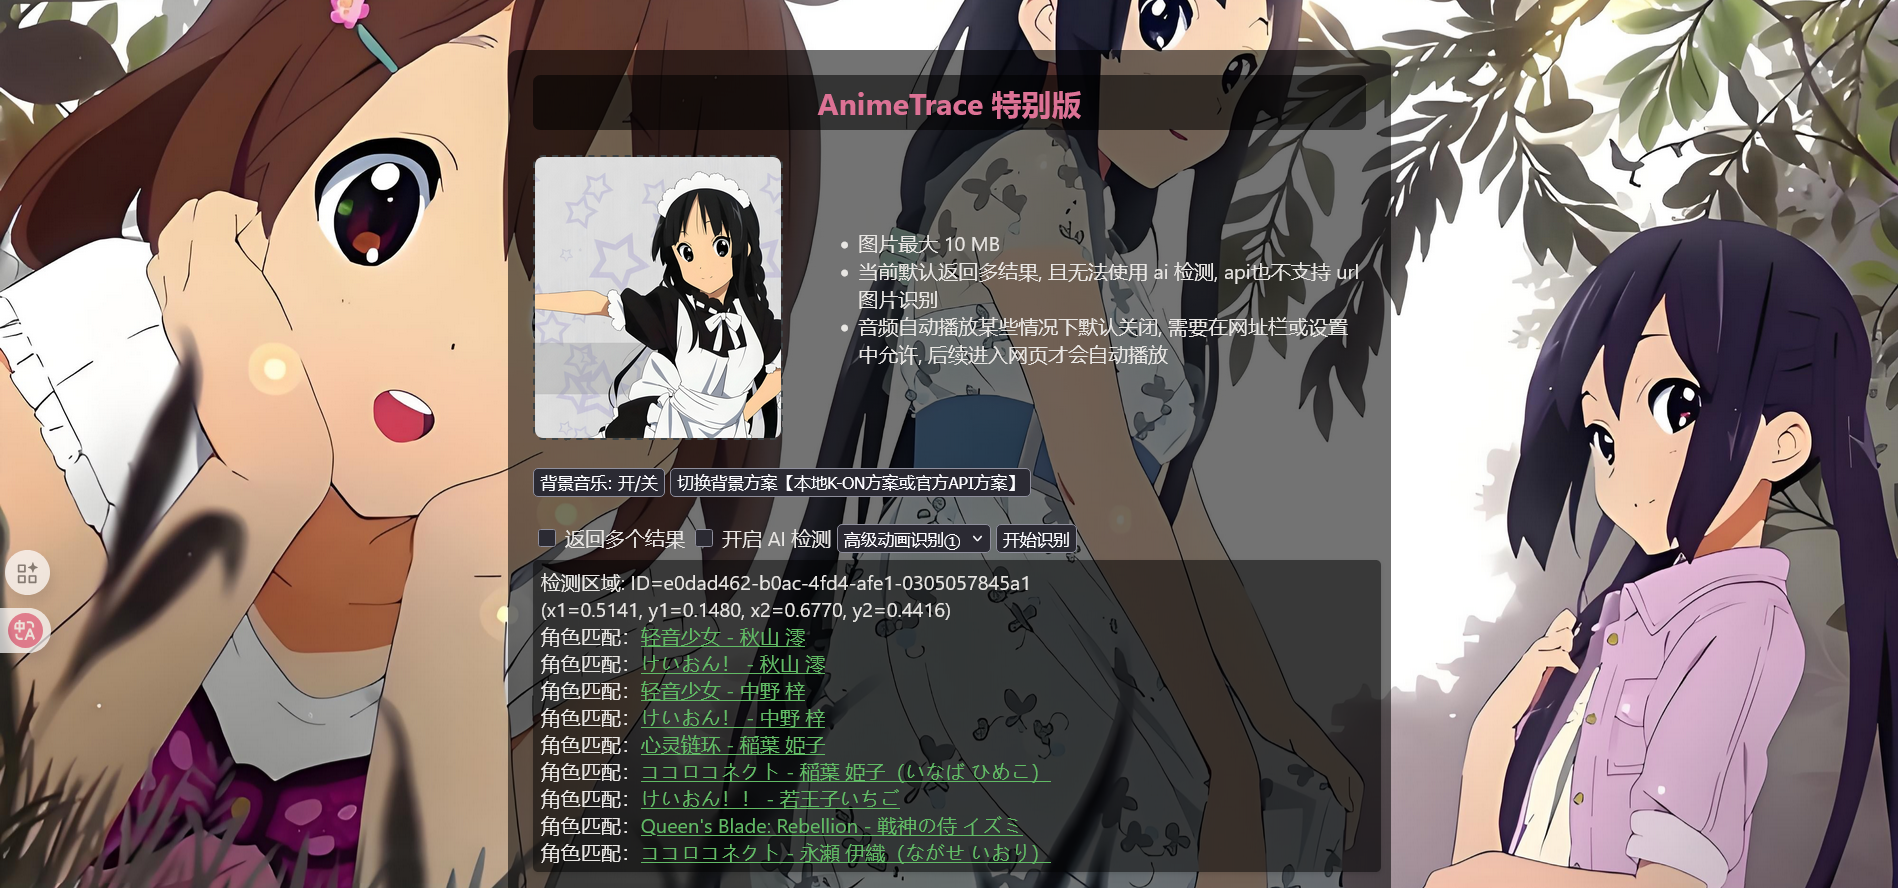
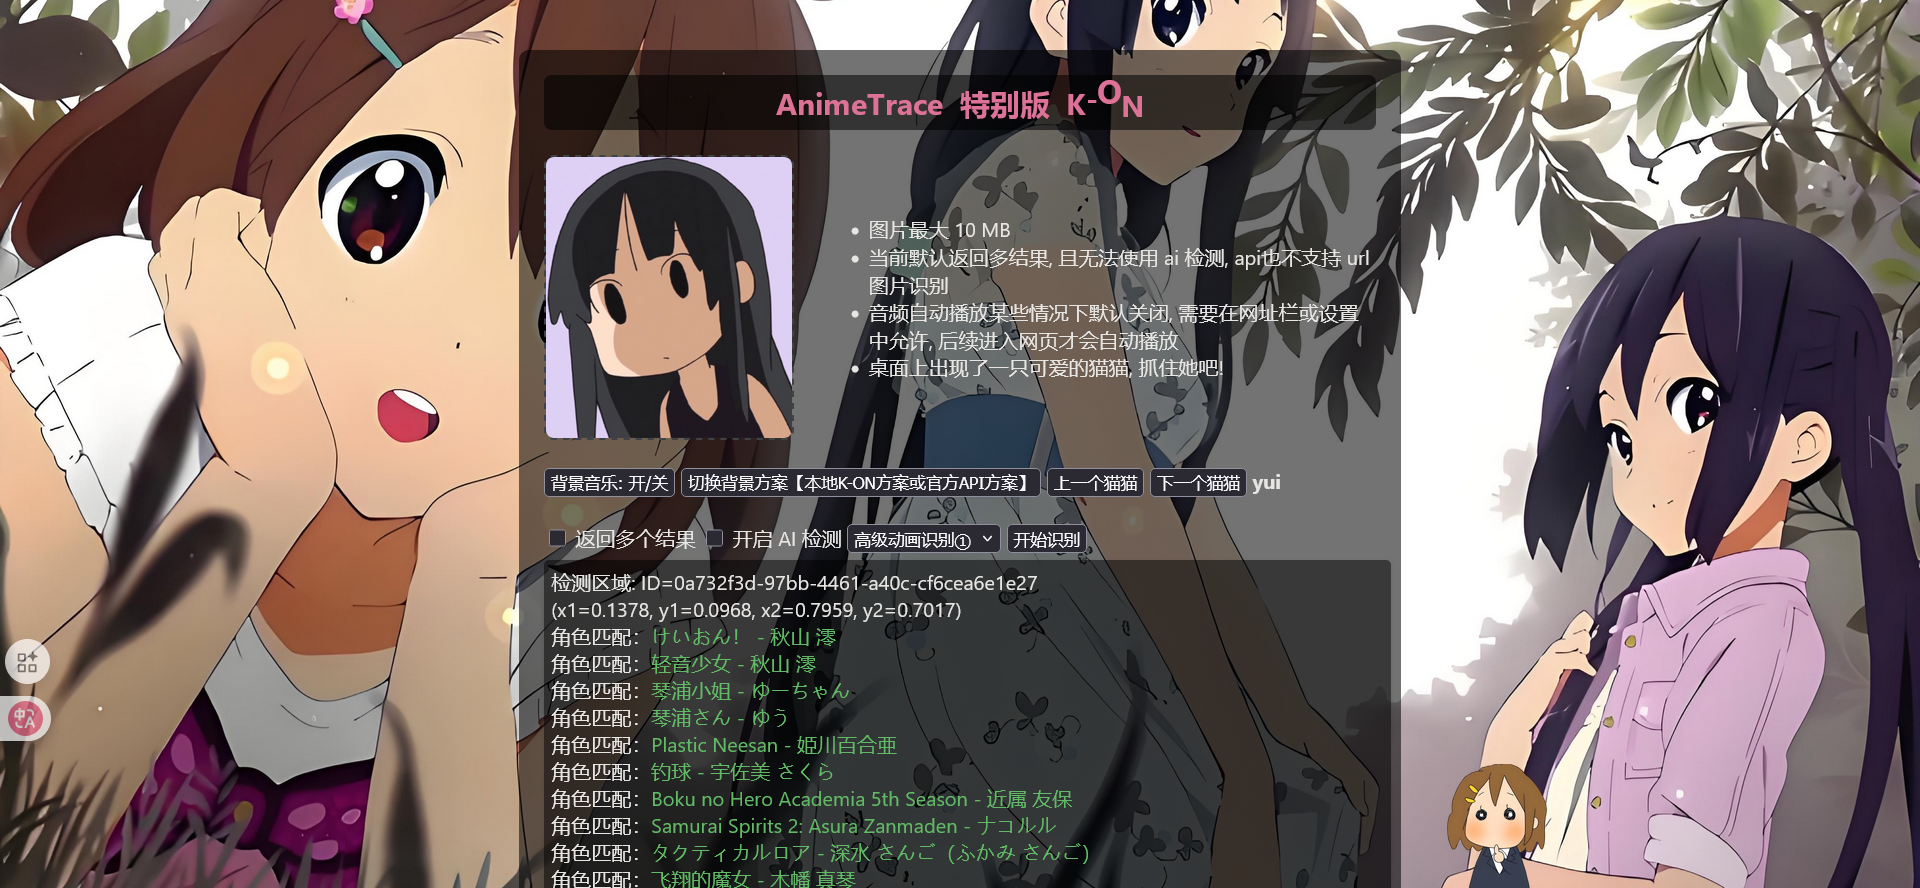
add hidecatcat

diff --git a/animetrace.html b/animetrace.html
@@ -9,12 +9,17 @@
     background:transparent;
     margin:0;
     font-family:-apple-system,BlinkMacSystemFont,"Segoe UI",Roboto,"Helvetica Neue",Arial,"Noto Sans",sans-serif;
+    overflow: hidden; /* 防止因为躲猫猫导致窗口抖动 */
   }
-  #fileBoxContainer {  /* 用于在添加文件旁边添加几条提示 */
+
+  /* 用于在添加文件旁边添加几条提示 */
+  #fileBoxContainer {  
     display: flex;
     align-items: center;
     gap: 20px; /* 设置间距 */
   }
+
+  /* 上传图片盒子 */
   #fileBox{
     width:300px;
     height:225px;
@@ -27,6 +32,7 @@
     align-items:center;
     justify-content:center;
   }
+  /* 上传后覆盖图片 */
   #fileBox img{
     width:100%;
     height:100%;
@@ -45,6 +51,8 @@
       background:rgba(0,0,0,.5);  /* 返回结果使用黑色半透明背景 */
       box-shadow:0 1px 2px rgba(0,0,0,.1)
     }
+
+    /* 包容所有控件的盒子 */
     .container{
       width:666px;
       margin:40px auto;
@@ -53,6 +61,8 @@
       border-radius:8px;
       color:#fff;
     }
+
+    /* 跳动文字样式 */
     h2{
       white-space: pre-wrap; /* 保留所有空格 */
       position:relative;
@@ -87,9 +97,78 @@
           transform: translateY(0) rotateY(720deg) scale(1);
       }
     }
+
+    /* 躲猫猫样式 */
+    #game-container {
+      position: relative;
+      width: 100%;
+      height: 100%;
+    }
+    
+    #character {
+      position: absolute;
+      width: 100px;
+      height: 100px;
+      background: url('images/mio_bottom.png') center/contain no-repeat;
+      cursor: pointer;
+      transition: 
+          background-image 0.3s,
+          transform 0.4s cubic-bezier(0.5, 0, 0.5, 1),
+          opacity 0.4s ease;
+      transform-origin: center;
+      opacity: 1;
+    }
+    
+    #character.hiding-left {
+      transform: translateX(-100px) scale(0.8);
+      opacity: 0;
+    }
+    
+    #character.hiding-right {
+      transform: translateX(100px) scale(0.8);
+      opacity: 0;
+    }
+    
+    #character.hiding-bottom {
+      transform: translateY(100px) scale(0.8);
+      opacity: 0;
+    }
+    
+    #character.appearing-left {
+      transform: translateX(-30px);
+      opacity: 0;
+    }
+    
+    #character.appearing-right {
+      transform: translateX(30px);
+      opacity: 0;
+    }
+    
+    #character.appearing-bottom {
+      transform: translateY(30px);
+      opacity: 0;
+    }
+    
+    #character.visible {
+      transform: translate(0, 0) scale(1);
+      opacity: 1;
+    }
+    
+    #character-name {
+      font-weight: bold;
+      margin-right: 10px;
+      align-self: center;
+      min-width: 60px;
+      text-align: center;
+    }
 </style>
 </head>
 <body>
+  <!-- 猫猫盒子 -->
+  <div id="game-container">
+    <div id="character" class="visible"></div>
+  </div>
+
   <!-- 包含所有控件的盒子，用于透明化 -->
   <div class="container">
     <h2 id="text-container">AnimeTrace  特别版  K-ON</h2>
@@ -108,12 +187,16 @@
           <li>图片最大 10 MB</li>
           <li>当前默认返回多结果, 且无法使用 ai 检测, api也不支持 url 图片识别</li>
           <li>音频自动播放某些情况下默认关闭, 需要在网址栏或设置中允许, 后续进入网页才会自动播放</li>
+          <li>桌面上出现了一只可爱的猫猫, 抓住她吧!</li>
         </ul>
       </div>
     </div><br>
     <audio id="bgMusic" style="display:none"></audio>
     <button id="musicToggle">背景音乐: 开/关</button>
-    <button id="toggleBtn">切换背景方案【本地K-ON方案或官方API方案】</button><br><br>
+    <button id="toggleBtn">切换背景方案【本地K-ON方案或官方API方案】</button>
+    <button id="prev-btn">上一个猫猫</button>
+    <button id="next-btn">下一个猫猫</button>
+    <span id="character-name"></span><br><br>
 
     <!-- 控制区 -->
     <!-- 当前不知道为什么, 无论是否勾选返回多结果, 都是返回多结果, 无论是否勾选AI检测, 都返回AI检测为否, 即使发送了AI图 -->
@@ -462,76 +545,177 @@
     // 修改自 github.com/djzhao627/JSClickBubble
     (function(){
       onload = function() {
-          var click_cnt = 0;  // 点击次数
-          var $html = document.getElementsByTagName("html")[0];
-          var $body = document.getElementsByTagName("body")[0];
-          $html.onclick = function(e) {
-              var $elem = document.createElement("b");
-              $elem.style.color = "#E94F06"; // 字体颜色
-              $elem.style.zIndex = 9999;
-              $elem.style.position = "absolute";
-              $elem.style.select = "none";
-              var x = e.pageX;
-              var y = e.pageY;
-              $elem.style.left = (x - 10) + "px";
-              $elem.style.top = (y - 20) + "px";
-              clearInterval(anim);
-              switch (++click_cnt) {
-                case 10: 
-                    $elem.innerText = "(ᗜˬᗜ)";
-                    break;
-                case 20: 
-                    $elem.innerText = "(ᗜᴗᗜ)";
-                    break;
-                case 30:
-                    $elem.innerText = "毕业不是终点 今后我们还会相遇";
-                    break;
-                case 40: 
-                    $elem.innerText = "无论走到哪里，我们都是放課後ティータイム~";
-                    break;
-                case 50: 
-                    $elem.innerText = "轻音永不毕业!";
-                    break;
-                case 60:
-                  $elem.innerText = "吉他手 平沢 唯";
-                  break;
-                case 70:
-                    $elem.innerText = "贝斯手 秋山 澪";
-                    break;
-                case 80:
-                    $elem.innerText = "鼓手 田井中 律";
-                    break;
-                case 90:
-                    $elem.innerText = "键盘手 琴吹 紬";
-                    break;
-                case 100:
-                    $elem.innerText = "吉他手 中野 梓";
-                    break;
-                case 121: // 重置
-                    click_cnt = 0;
-                    break;
-                default:
-                    // 默认点击符号
-                    $elem.innerText = "K-ON!";
-                    break;
-              }
-              $elem.style.fontSize = Math.random() * 10 + 8 + "px";
-              var increase = 0;
-              var anim;
-              setTimeout(function() {
-                  anim = setInterval(function() {
-                      if (++increase == 150) {
-                          clearInterval(anim);
-                  $body.removeChild($elem);
-                      }
-                      $elem.style.top = y - 20 - increase + "px";
-                      $elem.style.opacity = (150 - increase) / 120;
-                  }, 8);
-              }, 70);
-              $body.appendChild($elem);
-          };
+        var click_cnt = 0;  // 点击次数
+        var $html = document.getElementsByTagName("html")[0];
+        var $body = document.getElementsByTagName("body")[0];
+        $html.onclick = function(e) {
+          var $elem = document.createElement("b");
+          $elem.style.color = "#E94F06"; // 字体颜色
+          $elem.style.zIndex = 9999;
+          $elem.style.position = "absolute";
+          $elem.style.select = "none";
+          var x = e.pageX;
+          var y = e.pageY;
+          $elem.style.left = (x - 10) + "px";
+          $elem.style.top = (y - 20) + "px";
+          clearInterval(anim);
+          switch (++click_cnt) {
+            case 10: 
+                $elem.innerText = "(ᗜˬᗜ)";
+                break;
+            case 20: 
+                $elem.innerText = "(ᗜᴗᗜ)";
+                break;
+            case 30:
+                $elem.innerText = "毕业不是终点 今后我们还会相遇";
+                break;
+            case 40: 
+                $elem.innerText = "无论走到哪里，我们都是放課後ティータイム~";
+                break;
+            case 50: 
+                $elem.innerText = "轻音永不毕业!";
+                break;
+            case 60:
+              $elem.innerText = "吉他手 平沢 唯";
+              break;
+            case 70:
+                $elem.innerText = "贝斯手 秋山 澪";
+                break;
+            case 80:
+                $elem.innerText = "鼓手 田井中 律";
+                break;
+            case 90:
+                $elem.innerText = "键盘手 琴吹 紬";
+                break;
+            case 100:
+                $elem.innerText = "吉他手 中野 梓";
+                break;
+            case 121: // 重置
+                click_cnt = 0;
+                break;
+            default:
+                // 默认点击符号
+                $elem.innerText = "K-ON!";
+                break;
+          }
+          $elem.style.fontSize = Math.random() * 10 + 8 + "px";
+          var increase = 0;
+          var anim;
+          setTimeout(function() {
+              anim = setInterval(function() {
+                  if (++increase == 150) {
+                      clearInterval(anim);
+              $body.removeChild($elem);
+                  }
+                  $elem.style.top = y - 20 - increase + "px";
+                  $elem.style.opacity = (150 - increase) / 120;
+              }, 8);
+          }, 70);
+          $body.appendChild($elem);
+        };
       };
     })();
+
+    //========== 躲猫猫模块 ==========
+
+    const characters = ['mio', 'yui', 'azi', 'ritsu', 'mugi'];
+    const character = document.getElementById('character');
+    const nameDisplay = document.getElementById('character-name');
+    let currentCharIndex = 0;
+    let currentPosition = 'bottom';
+    let isAnimating = false;
+
+    function updateCharacter() {
+      nameDisplay.textContent = characters[currentCharIndex];
+      setBorderPosition();
+    }
+
+    function updateImage(position) {
+      const charName = characters[currentCharIndex];
+      character.style.backgroundImage = `url(cats/${charName}_${position}.png)`;
+      currentPosition = position;
+    }
+
+    function hideCharacter(callback) {
+      if (isAnimating) return;
+      isAnimating = true;
+      
+      character.classList.remove('visible');
+      character.classList.add(`hiding-${currentPosition}`);
+      
+      setTimeout(() => {
+          character.classList.remove(`hiding-${currentPosition}`);
+          if (callback) callback();
+      }, 400);
+    }
+
+    function showCharacter(position) {
+      character.classList.add(`appearing-${position}`);
+      updateImage(position);
+      
+      setTimeout(() => {
+        character.classList.remove(`appearing-${position}`);
+        character.classList.add('visible');
+        isAnimating = false;
+      }, 50);
+    }
+
+    function moveCharacter(newPosition) {
+      hideCharacter(() => {
+        const positions = ['left', 'bottom', 'right'];
+        const randomPosition = positions[Math.floor(Math.random() * positions.length)];
+        showCharacter(randomPosition);
+        
+        setTimeout(() => {
+          const [left, top] = calculatePosition(randomPosition);
+          character.style.left = left + 'px';
+          character.style.top = top + 'px';
+        }, 10);
+      });
+    }
+
+    function calculatePosition(position) {
+      switch(position) {
+        case 'left':
+          return [0, Math.random() * (window.innerHeight - 100)];
+        case 'bottom':
+          return [Math.random() * (window.innerWidth - 100), window.innerHeight - 100];
+        case 'right':
+          return [window.innerWidth - 100, Math.random() * (window.innerHeight - 100)];
+      }
+    }
+
+    function setBorderPosition() {
+      const positions = ['left', 'bottom', 'right'];
+      const newPosition = positions[Math.floor(Math.random() * positions.length)];
+      moveCharacter(newPosition);
+    }
+
+    document.addEventListener('DOMContentLoaded', function() {
+      updateCharacter();
+      
+      document.getElementById('prev-btn').addEventListener('click', function() {
+        currentCharIndex = (currentCharIndex - 1 + characters.length) % characters.length;
+        updateCharacter();
+      });
+      
+      document.getElementById('next-btn').addEventListener('click', function() {
+        currentCharIndex = (currentCharIndex + 1) % characters.length;
+        updateCharacter();
+      });
+      
+      document.addEventListener('mousemove', function(e) {
+        const rect = character.getBoundingClientRect();
+        const distance = Math.sqrt(
+          Math.pow(e.clientX - (rect.left + rect.width/2), 2) +
+          Math.pow(e.clientY - (rect.top + rect.height/2), 2)
+        );
+        
+        if (distance < 200 && !isAnimating) {
+          setBorderPosition();
+        }
+      });
+    });
   </script>
 </body>
 </html>
